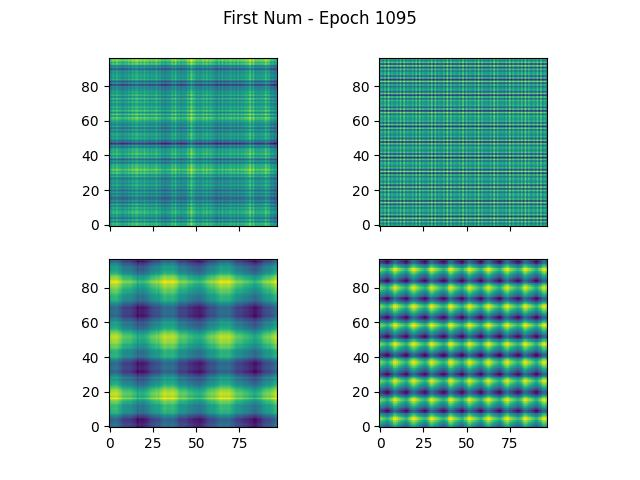
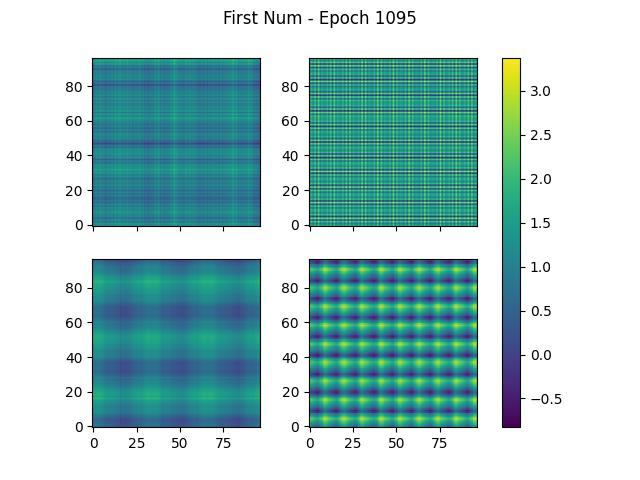
update images

diff --git a/attention_heatmap.py b/attention_heatmap.py
@@ -26,7 +26,7 @@ device = 'cuda' if torch.cuda.is_available() else 'cpu'
 
 dataset = torch.from_numpy(get_dataset('minus', 97, './data').data).to(device)[:,:-1]
 
-first_num = False
+first_num = True
 
 for path in tqdm(paths[-1:]):
     epoch = int(path.split('/')[-1].split('-')[0].split('=')[-1])
@@ -52,7 +52,8 @@ for path in tqdm(paths[-1:]):
     fig, axes = plt.subplots(2, 2, sharex=True)
     for row in range(2):
         for col in range(2):
-            axes[row, col].imshow(dot_product[...,row*2+col,pos].detach().cpu().numpy(), origin='lower')
+            plot = axes[row, col].imshow(dot_product[...,row*2+col,pos].detach().cpu().numpy(), origin='lower', vmin=torch.min(dot_product[...,pos]), vmax=torch.max(dot_product[...,pos]))
+    fig.colorbar(plot, ax=axes)
     plt.suptitle(f"{title} - Epoch {epoch}")
     plt.savefig(f'{model_name}/attention_heatmaps/{folder}/epoch={epoch}.jpg')
     raise ValueError

diff --git a/eq_query_number_key.py b/eq_query_number_key.py
@@ -38,12 +38,12 @@ for path in tqdm(paths):
     qkv = einops.rearrange(qkv, 'batch seq_length (num_heads head_dim) -> batch num_heads seq_length head_dim', head_dim=3*model.transformer[0].self_attn.head_dim)
     q, k, v = qkv.chunk(3, dim=-1)
     equal_queries = q[:,:,-1]
-    num_keys = k[:,:,[0,1]]
     
     
-    dot_product = torch.einsum('bhn,bhtn->bht', equal_queries, num_keys)[[98*j for j in range(97)]]
-    dot_product -= torch.mean(dot_product, dim=0, keepdim=True)
+    dot_product = torch.einsum('bhn,bhtn->bht', equal_queries, k)[[98*j for j in range(97)]]
+    dot_product -= torch.mean(dot_product, dim=-1, keepdim=True)
     dot_product /= 128**0.5
+    dot_product = dot_product[...,[0,1]]
     num_heads = dot_product.shape[1]
     fig, axes = plt.subplots(num_heads, 1, sharex=True)
     for i in range(num_heads):

diff --git a/lesion_experiments.py b/lesion_experiments.py
@@ -25,7 +25,6 @@ def lesion_head(head_idx: Union[int, List] = 3, head_dim=32):
         hook = Hook('transformer->0->self_attn', hook_fn, f'lesion_head_{head_idx}')
     else:
         raise TypeError
-    
     return hook
 
 model_name = "No Norm, Single Layer"
